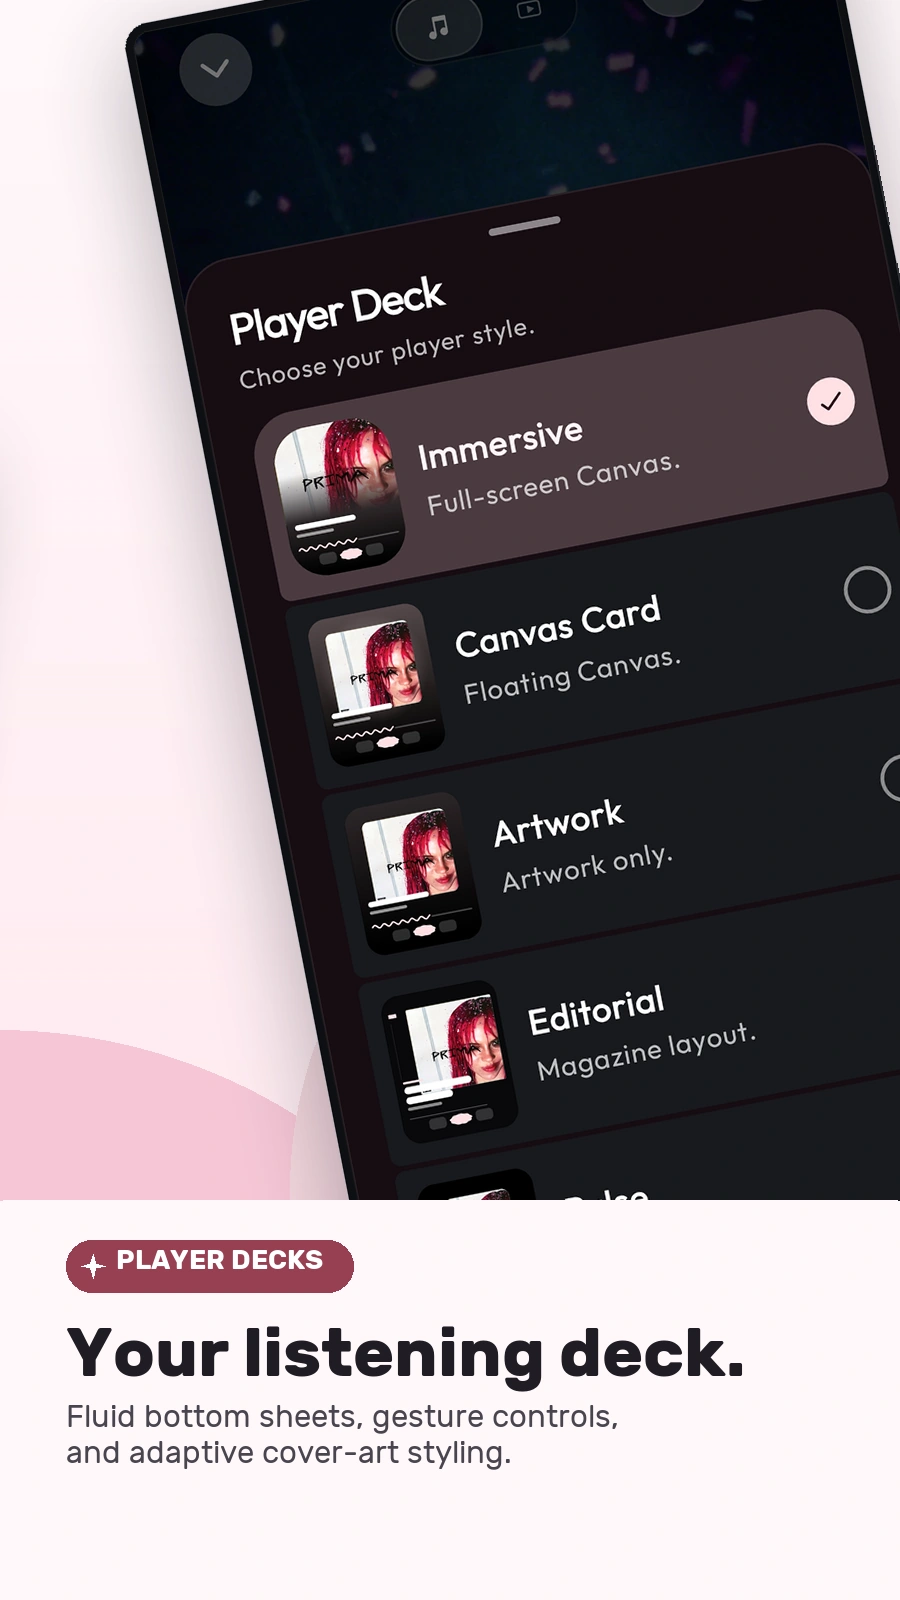
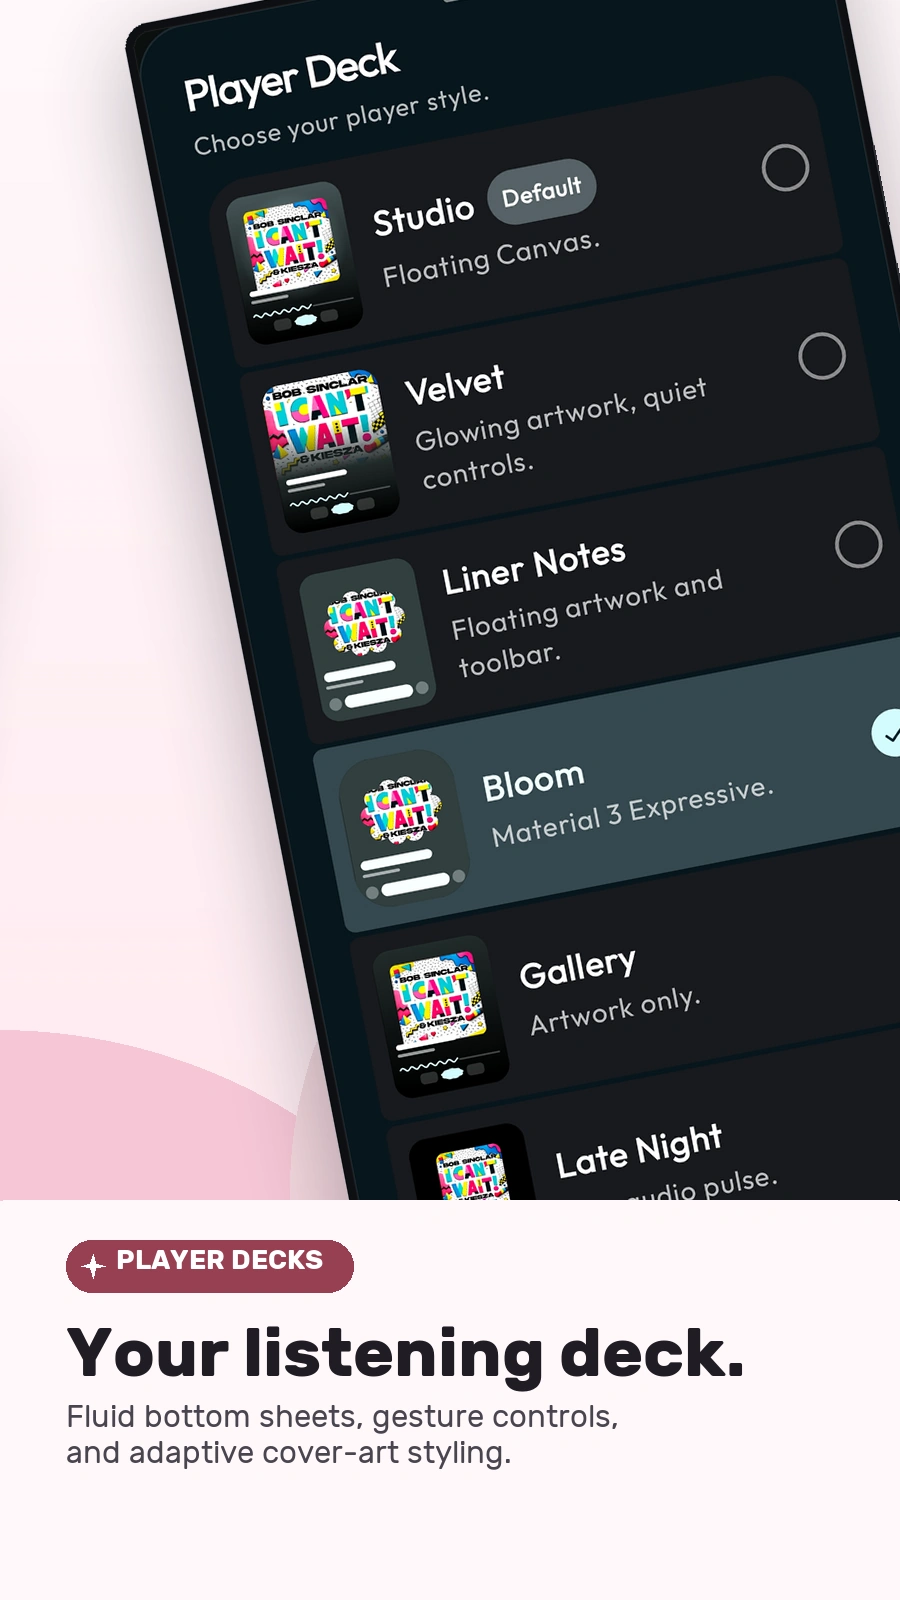
docs: refresh orbit and player deck showcase

diff --git a/scripts/generate_showcase_assets.py b/scripts/generate_showcase_assets.py
@@ -253,7 +253,7 @@ M3_SHOWCASE_SPECS = [
      (160, 45, 140), ["03_now_playing.webp"]),
 
     # Card 04: Player Decks
-    ("Screenshot_20261010_190538_LEVYRA.jpg", "PLAYER DECKS", "Your listening deck.",
+    ("Screenshot_20261012_193118_LEVYRA.jpg", "PLAYER DECKS", "Your listening deck.",
      "Fluid bottom sheets, gesture controls,\nand adaptive cover-art styling.",
      (110, 50, 185), ["04_player_deck.webp"]),
 
@@ -298,7 +298,7 @@ M3_SHOWCASE_SPECS = [
      (130, 65, 170), ["12_listening_rhythm.webp"]),
 
     # Card 13: Your Orbit
-    ("Screenshot_20261010_132103_LEVYRA.jpg", "TOP ROTATION", "In your orbit.",
+    ("Screenshot_20261012_193022_LEVYRA.jpg", "TOP ROTATION", "In your orbit.",
      "The songs and artists that always return\nto your daily rotation.",
      (105, 45, 195), ["13_your_orbit.webp"]),
 

diff --git a/README.md b/README.md
@@ -125,10 +125,10 @@ Enhanced Audio is on by default and can be turned off in Audio Settings. Technic
 </p>
 
 <p align="center">
-  <a href="docs/assets/showcase/cards/01_home.webp"><img src="docs/assets/showcase/cards/01_home.webp?v=m3-expressive-cut-v7" width="200" alt="Levyra home and personalized radio" /></a><a href="docs/assets/showcase/cards/02_stay_with_the_song.webp"><img src="docs/assets/showcase/cards/02_stay_with_the_song.webp?v=m3-expressive-cut-v7" width="200" alt="Levyra offline downloads with local audio files, artwork, and metadata" /></a><a href="docs/assets/showcase/cards/03_now_playing.webp"><img src="docs/assets/showcase/cards/03_now_playing.webp?v=m3-expressive-cut-v7" width="200" alt="Levyra synchronized lyrics" /></a><a href="docs/assets/showcase/cards/04_player_deck.webp"><img src="docs/assets/showcase/cards/04_player_deck.webp?v=m3-expressive-cut-v7" width="200" alt="Levyra customizable player decks" /></a><br>
+  <a href="docs/assets/showcase/cards/01_home.webp"><img src="docs/assets/showcase/cards/01_home.webp?v=m3-expressive-cut-v7" width="200" alt="Levyra home and personalized radio" /></a><a href="docs/assets/showcase/cards/02_stay_with_the_song.webp"><img src="docs/assets/showcase/cards/02_stay_with_the_song.webp?v=m3-expressive-cut-v7" width="200" alt="Levyra offline downloads with local audio files, artwork, and metadata" /></a><a href="docs/assets/showcase/cards/03_now_playing.webp"><img src="docs/assets/showcase/cards/03_now_playing.webp?v=m3-expressive-cut-v7" width="200" alt="Levyra synchronized lyrics" /></a><a href="docs/assets/showcase/cards/04_player_deck.webp"><img src="docs/assets/showcase/cards/04_player_deck.webp?v=m3-expressive-cut-v8" width="200" alt="Levyra customizable player decks" /></a><br>
   <a href="docs/assets/showcase/cards/05_explore_stage.webp"><img src="docs/assets/showcase/cards/05_explore_stage.webp?v=m3-expressive-cut-v7" width="200" alt="Levyra explore and fresh currents" /></a><a href="docs/assets/showcase/cards/06_levyra_mix_stage.webp"><img src="docs/assets/showcase/cards/06_levyra_mix_stage.webp?v=m3-expressive-cut-v7" width="200" alt="Levyra custom mix and live radio" /></a><a href="docs/assets/showcase/cards/07_genres.webp"><img src="docs/assets/showcase/cards/07_genres.webp?v=m3-expressive-cut-v7" width="200" alt="Levyra moods and genres" /></a><a href="docs/assets/showcase/cards/08_audio_tuning.webp"><img src="docs/assets/showcase/cards/08_audio_tuning.webp?v=m3-expressive-cut-v7" width="200" alt="Levyra audio tuning and playback engine" /></a><br>
   <a href="docs/assets/showcase/cards/09_album.webp"><img src="docs/assets/showcase/cards/09_album.webp?v=m3-expressive-cut-v7" width="200" alt="Levyra album details and tracklist" /></a><a href="docs/assets/showcase/cards/10_search.webp"><img src="docs/assets/showcase/cards/10_search.webp?v=m3-expressive-cut-v7" width="200" alt="Levyra instant search and suggestions" /></a><a href="docs/assets/showcase/cards/11_collections.webp"><img src="docs/assets/showcase/cards/11_collections.webp?v=m3-expressive-cut-v7" width="200" alt="Levyra curated collections and playlists" /></a><a href="docs/assets/showcase/cards/12_listening_rhythm.webp"><img src="docs/assets/showcase/cards/12_listening_rhythm.webp?v=m3-expressive-cut-v7" width="200" alt="Levyra listening rhythm and habits" /></a><br>
-  <a href="docs/assets/showcase/cards/13_your_orbit.webp"><img src="docs/assets/showcase/cards/13_your_orbit.webp?v=m3-expressive-cut-v7" width="200" alt="Levyra orbit and favorite tracks" /></a><a href="docs/assets/showcase/cards/14_listening_pulse.webp"><img src="docs/assets/showcase/cards/14_listening_pulse.webp?v=m3-expressive-cut-v7" width="200" alt="Levyra private listening stats and charts" /></a><a href="docs/assets/showcase/cards/15_artist_playlists.webp"><img src="docs/assets/showcase/cards/15_artist_playlists.webp?v=m3-expressive-cut-v7" width="200" alt="Levyra artist playlists and collections" /></a><a href="docs/assets/showcase/cards/16_settings_vault.webp"><img src="docs/assets/showcase/cards/16_settings_vault.webp?v=m3-expressive-cut-v7" width="200" alt="Levyra settings and local vault backups" /></a><br>
+  <a href="docs/assets/showcase/cards/13_your_orbit.webp"><img src="docs/assets/showcase/cards/13_your_orbit.webp?v=m3-expressive-cut-v8" width="200" alt="Levyra orbit and favorite tracks" /></a><a href="docs/assets/showcase/cards/14_listening_pulse.webp"><img src="docs/assets/showcase/cards/14_listening_pulse.webp?v=m3-expressive-cut-v8" width="200" alt="Levyra private listening stats and charts" /></a><a href="docs/assets/showcase/cards/15_artist_playlists.webp"><img src="docs/assets/showcase/cards/15_artist_playlists.webp?v=m3-expressive-cut-v7" width="200" alt="Levyra artist playlists and collections" /></a><a href="docs/assets/showcase/cards/16_settings_vault.webp"><img src="docs/assets/showcase/cards/16_settings_vault.webp?v=m3-expressive-cut-v7" width="200" alt="Levyra settings and local vault backups" /></a><br>
   <a href="docs/assets/showcase/cards/17_new_releases.webp"><img src="docs/assets/showcase/cards/17_new_releases.webp?v=m3-expressive-cut-v7" width="200" alt="Levyra new releases" /></a><a href="docs/assets/showcase/cards/18_artist_profile.webp"><img src="docs/assets/showcase/cards/18_artist_profile.webp?v=m3-expressive-cut-v7" width="200" alt="Levyra artist profile and discography" /></a><a href="docs/assets/showcase/cards/19_top_50.webp"><img src="docs/assets/showcase/cards/19_top_50.webp?v=m3-expressive-cut-v7" width="200" alt="Levyra Top 50 charts" /></a><a href="docs/assets/showcase/cards/20_levyra_jam.webp"><img src="docs/assets/showcase/cards/20_levyra_jam.webp?v=m3-expressive-cut-v7" width="200" alt="Levyra Jam collaborative listening on local Wi-Fi" /></a>
 </p>
 
